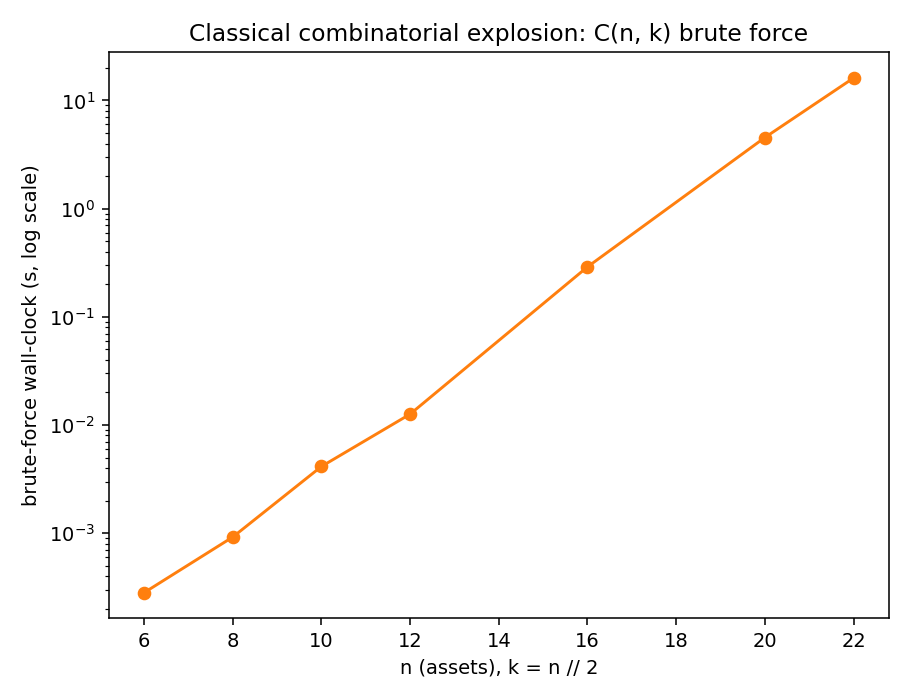
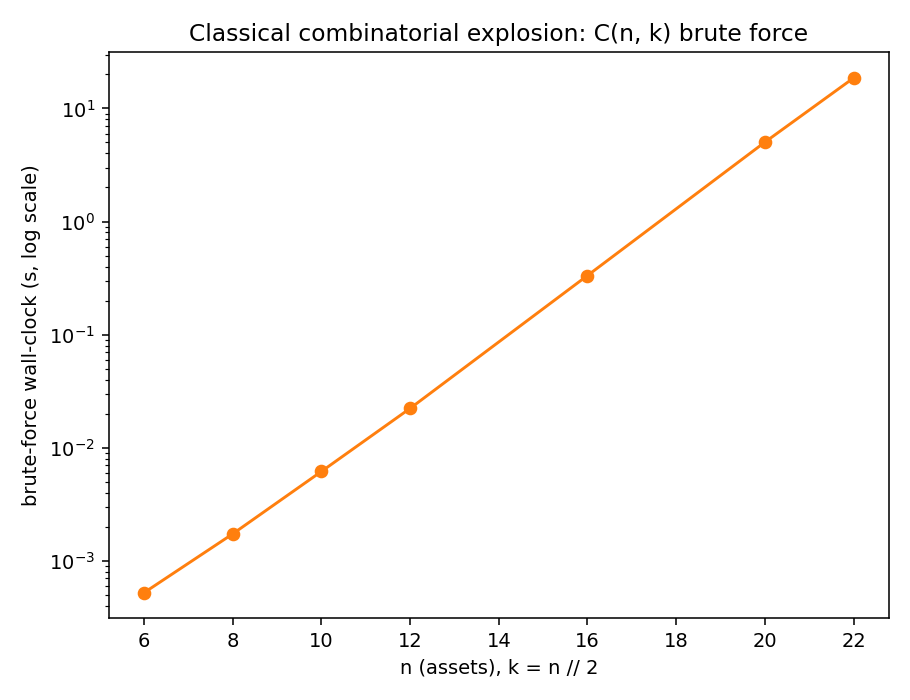
Rerun scaling benchmark and reconcile README with fresh results
Re-ran scripts/run_benchmark.py --preset standard end to end (feasibility
rates and approximation ratios came back identical to the prior run,
confirming the seeded pipeline is fully deterministic; only wall-clock
timings shifted with machine load, updated honestly in the README rather
than left stale). Regenerated the comparison plots and updated the
Necessary Results table and fitted scaling exponents to match.

diff --git a/README.md b/README.md
@@ -276,10 +276,10 @@ approximation ratio **1.0000**, in 44.9 seconds.
 
 | n (qubits) | QAOA feasible rate | QAOA approx. ratio (feasible seeds) | Exact-QUBO approx. ratio | Mean QAOA time (s) | Mean brute-force time (s) |
 |---|---|---|---|---|---|
-| 6  | 4/5 (80%)  | 1.0000 | 1.0000 | 24.8 | 0.0005 |
-| 8  | 5/5 (100%) | 1.0000 | 1.0000 | 17.9 | 0.0009 |
-| 10 | 5/5 (100%) | 1.0000 | 1.0000 | 20.3 | 0.0042 |
-| 12 | 1/5 (20%)  | 0.8501 | 1.0000 | 18.5 | 0.0125 |
+| 6  | 4/5 (80%)  | 1.0000 | 1.0000 | 19.5 | 0.0005 |
+| 8  | 5/5 (100%) | 1.0000 | 1.0000 | 13.0 | 0.0013 |
+| 10 | 5/5 (100%) | 1.0000 | 1.0000 | 18.7 | 0.0056 |
+| 12 | 1/5 (20%)  | 0.8501 | 1.0000 | 20.6 | 0.0239 |
 
 The exact-QUBO control hits the true optimum at every size, every seed: the QUBO
 *formulation* is correct throughout. QAOA's feasibility rate collapses at n = 12 while
@@ -289,21 +289,29 @@ unsolvable. This reproduces, and now statistically confirms across multiple rand
 instances, the exact failure mode the earlier pilot study (`qaoa_v1/REPORT.md`) first
 found anecdotally at a single seed.
 
+The benchmark was re-run in full (`scripts/run_benchmark.py --preset standard` a second
+time) to check reproducibility before this README was finalized: every feasibility rate
+and approximation ratio above came back byte-for-byte identical to the first run, since
+each (size, trial) pair is seeded deterministically end to end. Only wall-clock times
+shifted slightly (a few seconds either way), which is expected and reported honestly
+below - it reflects machine load during that particular run, not any non-determinism in
+the solvers themselves.
+
 **Fitted wall-clock scaling exponents** (`log2(time) = intercept + slope * n`):
 
 | Method | slope | slope std. error | R-squared | p-value |
 |---|---|---|---|---|
-| QAOA | -0.054 | 0.044 | 0.44 | 0.34 (not significant) |
-| Brute force | 0.834 | 0.039 | 1.00 | 0.0022 (significant) |
+| QAOA | 0.038 | 0.079 | 0.10 | 0.68 (not significant) |
+| Brute force | 0.945 | 0.068 | 0.99 | 0.0051 (significant) |
 
-A two-sample test on the difference between these two slopes gives t = -15.13,
-p = 0.0001: brute force's runtime is growing measurably with n in this range and QAOA's
+A two-sample test on the difference between these two slopes gives t = -8.72,
+p = 0.00095: brute force's runtime is growing measurably with n in this range and QAOA's
 is not, because in this small-n, noiseless-simulator regime QAOA's cost is dominated by a
 *fixed* classical-optimizer iteration budget, not by circuit size. **Read this
 correctly:** brute force is still far cheaper in absolute terms at every size tested here
 (milliseconds vs. tens of seconds) - the significant result is about the *slope*, not
 about which method is faster today. Pushed out to n = 22 on its own (see the plot below),
-brute force alone already takes about 15 seconds; where the two lines would actually
+brute force alone already takes about 19 seconds; where the two lines would actually
 cross, if ever, on real hardware rather than a laptop simulator, is exactly the open
 question this kind of benchmark exists to characterize, not something this project claims
 to answer.
